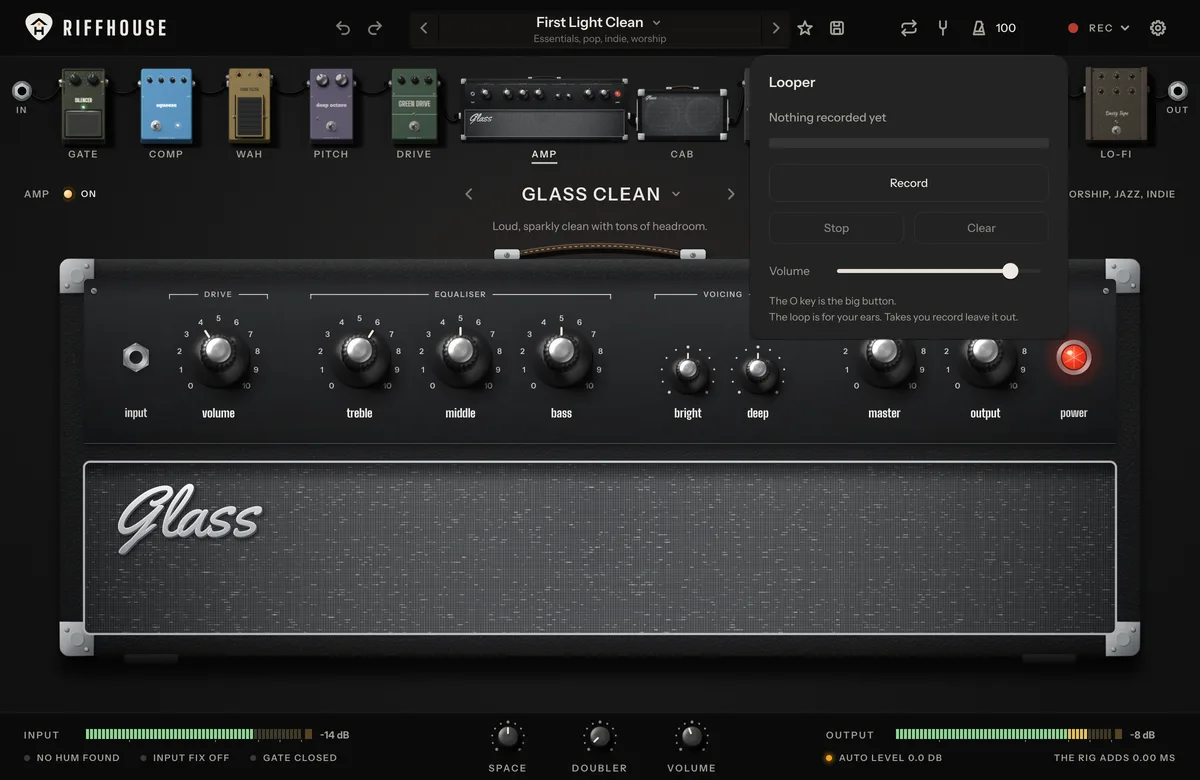
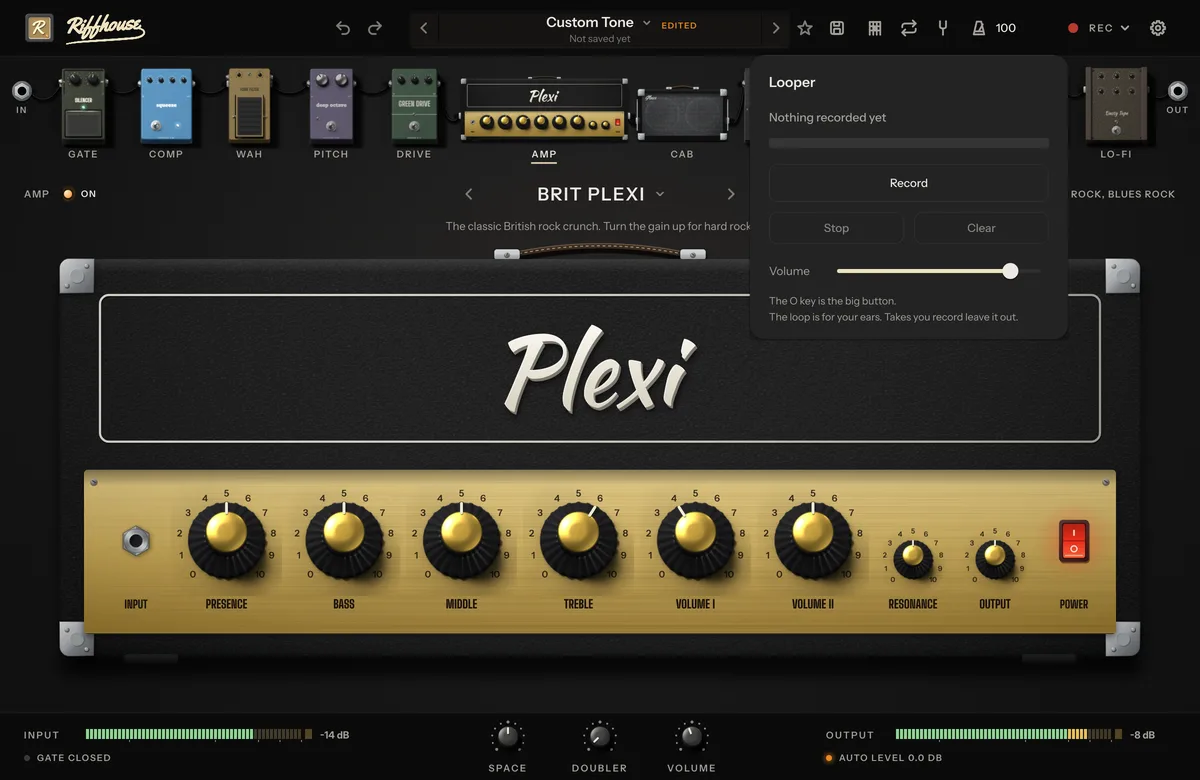
Website: the app pictures show the new look
The five app pictures still had the old header logo. They are rebuilt from fresh snapshots of the
current app: the setup card, a take through a new tone, play along, the looper and the tuner.
The setup card leaves out its delay row, which describes one PC. build_assets.py learns --screens
for a run without cutouts, and takes take-tone.png from the snapshot folder when it is there.

The help answer about reporting a problem no longer names one button, so it stays true when the
buttons are renamed.

diff --git a/site/index.html b/site/index.html
@@ -88,11 +88,11 @@
       <figcaption><span class="key key-fixed">With Input Fix</span> <span class="key key-jack">Mic jack alone</span> <span class="curve-note">Drawn from the filter Riffhouse runs, at 21 dB.</span></figcaption>
     </figure>
     <figure class="shot jack-shot" data-reveal="open">
-      <img src="img/app/setup-done-1200.webp" width="1200" height="1050" loading="lazy" decoding="async" alt="The end of setup in Riffhouse: guitar found on the microphone input, Input Fix bringing back 21 dB of treble, gate, auto level and hum filter set.">
+      <img src="img/app/setup-done-1200.webp" width="1200" height="1050" loading="lazy" decoding="async" alt="The end of setup in Riffhouse: listening on the microphone input, sound out on headphones, Input Fix bringing back 21 dB of treble, gate, auto level and hum filter set.">
       <figcaption>What setup found on a laptop mic jack.</figcaption>
     </figure>
     <ul class="found">
-      <li>Guitar on Microphone</li>
+      <li>Listening on Microphone</li>
       <li>Delay measured and set for you</li>
       <li>Input Fix on: 21 dB of treble back</li>
       <li>Gate at -52 dB, following the room</li>
@@ -229,7 +229,7 @@
       </div>
       <div class="pan" role="tabpanel" id="pan-takes" aria-labelledby="tab-takes">
         <p>Press L for your takes. Change the tone while a take loops, turn the knobs, and save the result as a new take.</p>
-        <figure class="shot"><a href="img/app/take-tone-1800.webp" aria-label="Open this picture full size"><img src="img/app/take-tone-1200.webp" srcset="img/app/take-tone-1200.webp 1200w, img/app/take-tone-1800.webp 1800w" sizes="(min-width: 1440px) 1344px, 94vw" width="1200" height="780" loading="lazy" decoding="async" alt="A recorded take playing through a new tone in Riffhouse, with the amp panel open and the take's waveform along the top."></a></figure>
+        <figure class="shot"><a href="img/app/take-tone-1800.webp" aria-label="Open this picture full size"><img src="img/app/take-tone-1200.webp" srcset="img/app/take-tone-1200.webp 1200w, img/app/take-tone-1800.webp 1800w" sizes="(min-width: 1440px) 1344px, 94vw" width="1200" height="780" loading="lazy" decoding="async" alt="A recorded take playing through a new tone in Riffhouse: the amp is open, and a bar along the bottom plays the take and offers to save it as a new one."></a></figure>
       </div>
       <div class="pan" role="tabpanel" id="pan-along" aria-labelledby="tab-along" hidden>
         <p>Load a song. Slow it to 50 percent and the pitch stays. Move the key and the speed stays. Mark the hard part and it goes round until you have it.</p>
@@ -300,7 +300,7 @@
       <details name="faq"><summary>Can I use my own captures?</summary><p>Yes. Any <code>.nam</code> file loads as the amp and any impulse response as the cabinet. Drop the file on the window.</p></details>
       <details name="faq"><summary>Are the artist tones official?</summary><p>No. “Inspired by” names a style. Riffhouse has no tie to any artist, band or equipment maker.</p></details>
       <details name="faq"><summary>Is there a Mac or Linux version?</summary><p>No installer yet. You can <a href="https://github.com/NatikChhabra/riffhouse#build-it-yourself">build it from source</a> today.</p></details>
-      <details name="faq"><summary>Something is broken. Where do I say so?</summary><p>Start with <a href="https://github.com/NatikChhabra/riffhouse/blob/main/docs/TROUBLESHOOTING.md">Help and fixes</a>. Still stuck? In Settings, press <b>Report a problem</b>. It copies a report and opens the GitHub page to paste it into. Tone requests go there too.</p></details>
+      <details name="faq"><summary>Something is broken. Where do I say so?</summary><p>Start with <a href="https://github.com/NatikChhabra/riffhouse/blob/main/docs/TROUBLESHOOTING.md">Help and fixes</a>. Still stuck? Settings has report buttons under Help. One opens the GitHub page with a report ready to paste. Tone requests go there too.</p></details>
     </div>
   </div>
 </section>

diff --git a/tools/site/build_assets.py b/tools/site/build_assets.py
@@ -3,6 +3,7 @@
 
   Riffhouse --snapshots <folder> 2          every screen and each piece of gear, drawn by the app
   python3 tools/site/build_assets.py <folder>
+  python3 tools/site/build_assets.py <folder> --screens     only the screen pictures, no cutouts needed
 
 Writes site/img/ (gear cutouts, screen crops, icons), site/fonts/ and site/tones.json.
 Needs Pillow and fonttools with brotli. Run it again whenever the gear or the tones change.
@@ -15,6 +16,7 @@ from PIL import Image
 ROOT = Path(__file__).resolve().parents[2]
 SITE = ROOT / "site"
 SHOTS = Path(sys.argv[1]) if len(sys.argv) > 1 and sys.argv[1] != "--tones" else None
+ONLY_SCREENS = sys.argv[2:] == ["--screens"]
 
 # Cutout file, name on the box, what it does, in the order of the signal chain.
 PEDALS = [
@@ -55,6 +57,9 @@ CROPS = {
     "tuner": ("tuner.png", None, None),
     "looper": ("looper.png", None, None),
 }
+# Rows taken out of a screen before it is cropped: (top, bottom, end of the list). What sits between
+# bottom and end moves up to close the gap. The setup card's delay figure describes one PC, not yours.
+CUTS = {"setup-done": (602, 666, 1100)}
 
 
 def save(im, path, quality=86, **kw):
@@ -145,13 +150,20 @@ def screens():
     for name, (src, box, _) in CROPS.items():
         im = Image.open(SHOTS / src).convert("RGB")
         if box:
+            if name in CUTS:
+                top, bottom, end = CUTS[name]
+                im.paste(im.crop((box[0], bottom, box[2], end)), (box[0], top))
+                im.paste(im.getpixel((box[0] + 40, end)), (box[0], end - (bottom - top), box[2], end))
             im = im.crop(box)
         for width in (2400, 1200):
             if im.width >= width or width == 1200:
                 small = im if im.width <= width else im.resize((width, round(im.height * width / im.width)), Image.LANCZOS)
                 save(small, SITE / "img" / "app" / f"{name}-{small.width}.webp", 82)
-    for name in ("take-tone",):  # this one needs a recorded take, so it comes from docs/
-        im = Image.open(ROOT / "docs" / "screenshots" / f"{name}.png").convert("RGB")
+    for name in ("take-tone",):  # this one needs a recorded take, so it comes from docs/ unless the folder has one
+        own = SHOTS / f"{name}.png"
+        im = Image.open(own if own.is_file() else ROOT / "docs" / "screenshots" / f"{name}.png").convert("RGB")
+        if im.width > 1800:
+            im = im.resize((1800, round(im.height * 1800 / im.width)), Image.LANCZOS)
         save(im, SITE / "img" / "app" / f"{name}-{im.width}.webp", 82)
         small = im.resize((1200, round(im.height * 1200 / im.width)), Image.LANCZOS)
         save(small, SITE / "img" / "app" / f"{name}-1200.webp", 82)
@@ -182,6 +194,9 @@ def fonts():
 if __name__ == "__main__":
     if sys.argv[1:] == ["--tones"]:  # only the tone list, from presets/, no pictures needed
         print(tones({k: {"name": n} for k, n, _ in PEDALS}), "tones")
+        sys.exit()
+    if SHOTS and ONLY_SCREENS:
+        screens()
         sys.exit()
     if not SHOTS or not (SHOTS / "cutouts").is_dir():
         sys.exit(__doc__)
